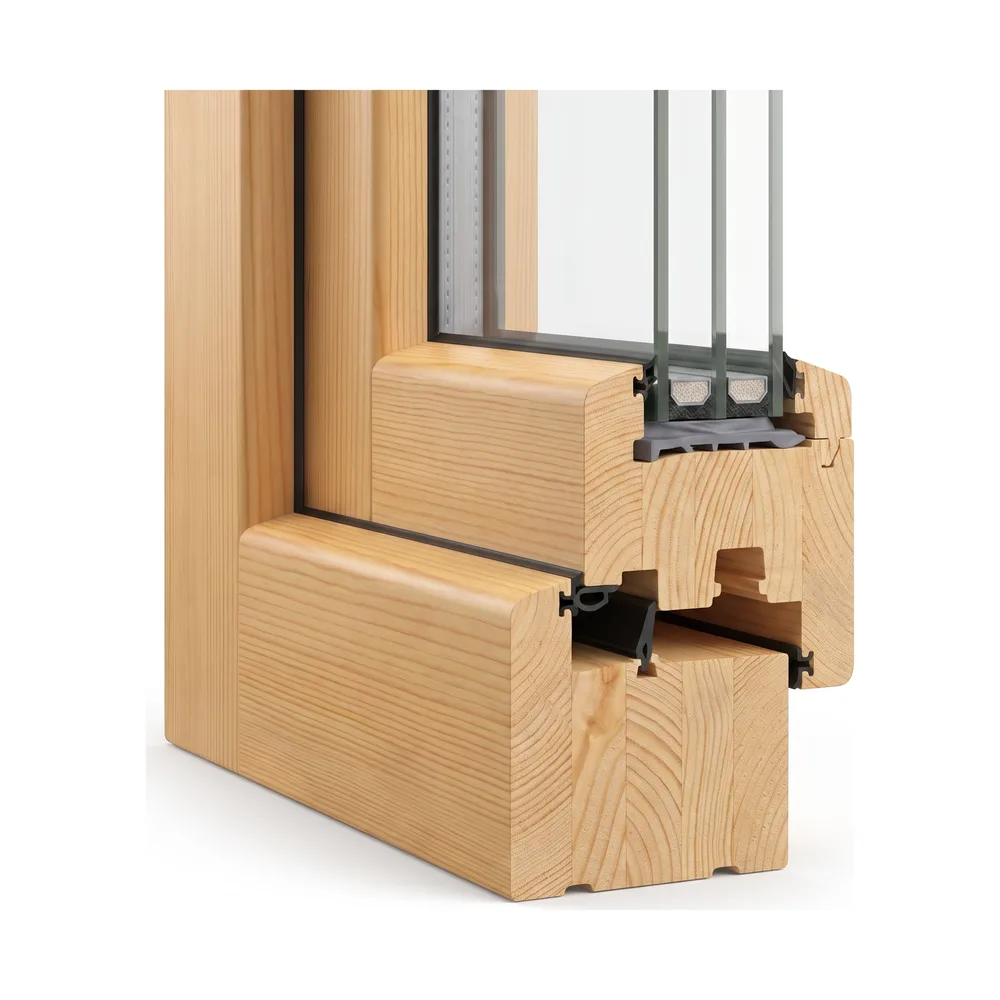
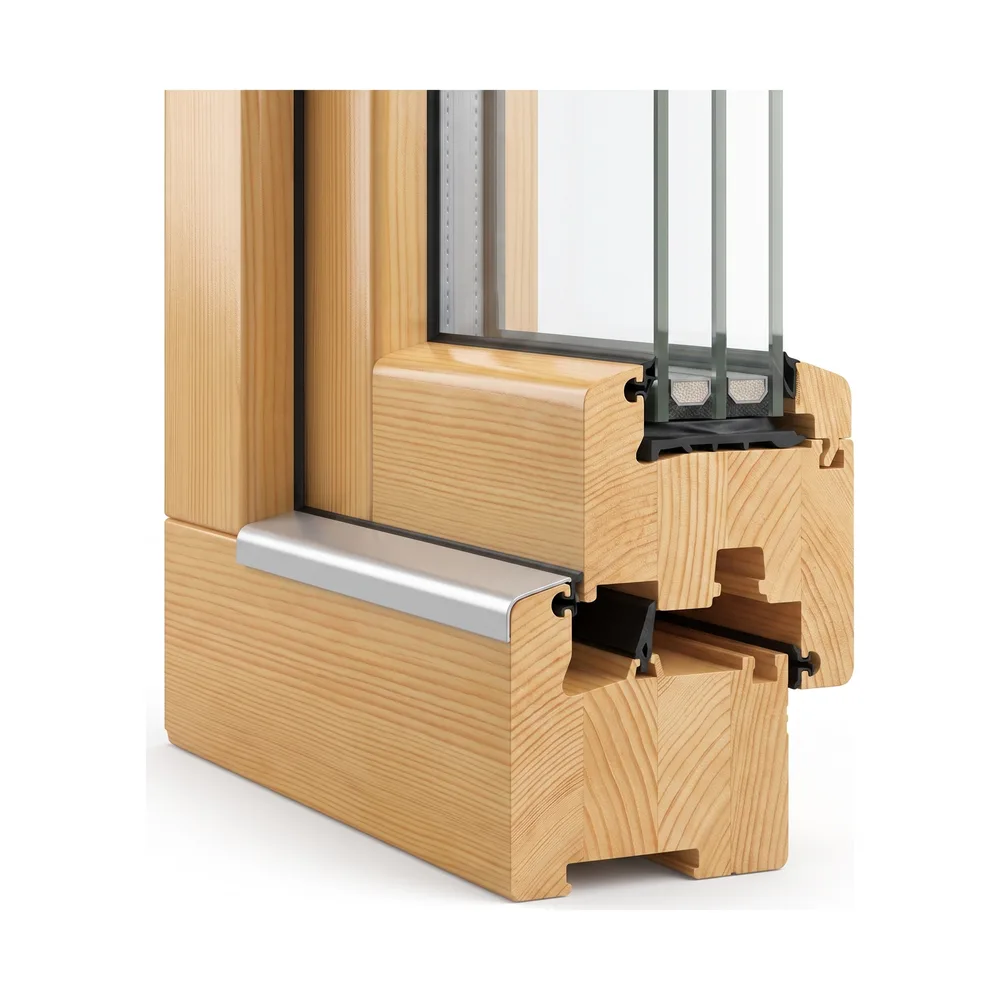
Profilkarten: Herstellerangaben je System, Bilder mit korrekter Verglasung
Alle neun Profilkarten (3 Kunststoff, 3 Holz, 3 Alu) zeigen jetzt dieselbe kurze
Angabenliste: Bautiefe, Kammern bzw. Dichtungen, Uw-Wert und ein bis zwei
Systemmerkmale. Jede Angabe ist an der Herstellerseite belegt (drutex.de,
geprueft 27.08.2026); die Quellen stehen als Kommentar am Katalog.

ZWEI FALSCHE ANGABEN AUF DEN BESTEHENDEN KUNSTSTOFF-KARTEN korrigiert:
- IGLO 5 Classic stand mit "Uw 0,83". Der Hersteller nennt 0,86 W/(m2K).
- IGLO Energy Classic stand mit "Uw 0,71". Der Hersteller nennt 0,73 W/(m2K).
Beide Werte waren besser als die Herstellerangabe. Ein zu guter Uw-Wert auf der
Karte ist eine irrefuehrende Angabe, kein Detail.

- Ein Weg fuer alle Profilkarten: der Katalog wird gefiltert und gerendert. Vorher
  standen die drei Kunststoff-Karten fest verdrahtet neben dem Katalogpfad, jede
  Aenderung war doppelt zu machen. IGLO EDGE bleibt bei der Haustuer aussen vor.
- Neun Kartenbilder neu erzeugt (Higgsfield, Nano Banana 2, 27.08.2026): die
  bisherigen zeigten bei Softline 78/88 drei Scheiben und bei Softline 68 nur eine
  Dichtung. Der Hersteller liefert serienmaessig 2-fach-Verglasung und fuehrt in
  allen drei Bautiefen zwei Dichtungen; die Alu-Systeme haben drei EPDM-Dichtungen.
  Die Aluminiumleiste am Fluegel ist jetzt sichtbar. Alle als WebP, zusammen 389 KB.
- hyphens:manual auf der Angabenliste: am Handy trennte der Browser sonst mitten
  im Wort ("Aluminiumleiste ge-gen").
[…]

diff --git a/konfigurator.html b/konfigurator.html
@@ -1481,6 +1481,14 @@ body.wiz-active .stage-card #stage svg{width:100%;height:auto;max-height:min(46v
 .ocard .vis img{max-height:110px}
 .ocard .t{font-size:15px;font-weight:700;line-height:1.25;color:var(--ink)}
 .ocard .s{font-size:12.5px;line-height:1.35;margin-top:4px;color:var(--ink-soft)}
+  /* Herstellerangaben auf den Profilkarten. Linksbuendig, weil untereinander stehende
+     Zeilen zentriert unruhig wirken — die Karte selbst bleibt zentriert. */
+  .ocard .pfacts{list-style:none;margin:11px 0 0;padding:0;text-align:left;display:grid;gap:3px}
+  .ocard .pfacts li{font-size:12px;line-height:1.35;color:var(--ink-soft);padding-left:13px;position:relative;overflow-wrap:break-word;hyphens:manual}  /* hyphens:manual statt auto: am Handy trennte der Browser sonst mitten im Wort
+     ("Aluminiumleiste ge-gen"). Ganze Woerter umbrechen liest sich ruhiger;
+     overflow-wrap faengt ein einzelnes ueberlanges Wort weiterhin ab. */
+  .ocard .pfacts li::before{content:'';position:absolute;left:2px;top:7px;width:4px;height:4px;border-radius:50%;background:var(--primary);opacity:.55}
+  @media(max-width:767px){ .ocard .pfacts li{font-size:11.5px;line-height:1.3} .ocard .pfacts{margin-top:9px;gap:2px} }
 .ocard:hover{border-color:var(--primary);box-shadow:0 6px 18px -10px rgba(34,94,170,.45)}
 
 /* Ausgewaehlt muss man auf einen Blick sehen — vorher nur eine duenne Linie. */
@@ -3708,16 +3716,34 @@ const HOLZARTEN={
    Bei Holz/Alu stehen nur Bautiefe und Dichtungen: pruefbare Konstruktionsangaben.
    Uw-Werte kommen erst aus den Drutex-Datenblaettern dazu, nicht aus Fremdquellen. */
 const PROFILE_KAT={
-  kunststoff:[{v:'classic',t:'IGLO 5 Classic',s:'5-Kammer \u00b7 Uw 0,83'},
-              {v:'energy', t:'IGLO Energy Classic',s:'7-Kammer \u00b7 Uw 0,71'},
-              {v:'edge',   t:'IGLO EDGE',s:'7-Kammer \u00b7 Uw 0,66'}],
-  holz:      [{v:'softline68',img:'softline68',t:'Softline 68 mm',s:'68 mm Bautiefe \u00b7 2 Dichtungen \u00b7 Uw 1,08'},
-              {v:'softline78',img:'softline78',t:'Softline 78 mm',s:'78 mm Bautiefe \u00b7 2 Dichtungen \u00b7 Uw 0,90'},
-              {v:'softline88',img:'softline88',t:'Softline 88 mm',s:'88 mm Bautiefe \u00b7 2 Dichtungen \u00b7 Uw 0,80'}],
-  alu:       [{v:'mb70',img:'mb70',  t:'MB-70',  s:'70 mm Bautiefe \u00b7 3 EPDM-Dichtungen \u00b7 Uw 1,06'},
-              {v:'mb70hi',img:'mb70hi',t:'MB-70HI',s:'70 mm Bautiefe \u00b7 3 EPDM-Dichtungen \u00b7 Uw 0,96'},
-              {v:'mb86si',img:'mb86si',t:'MB-86N SI',s:'77 mm Bautiefe \u00b7 3 EPDM-Dichtungen \u00b7 Uw 0,76'}]
+  kunststoff:[
+    {v:'classic', img:'iglo5-zentriert',               t:'IGLO 5 Classic',
+     f:['70 mm Bautiefe','5 Kammern','2 EPDM-Dichtungen','Uw 0,86 W/(m²K)','1,5 mm Stahlverstärkung']},
+    {v:'energy',  img:'iglo-energy-classic-zentriert', t:'IGLO Energy Classic',
+     f:['82 mm Bautiefe','7 Kammern','3 Dichtungen inkl. Mitteldichtung','Uw 0,73 W/(m²K)']},
+    {v:'edge',    img:'iglo-edge-zentriert',           t:'IGLO EDGE',
+     f:['82 mm Bautiefe','7 Kammern','3 EPDM-Dichtungen inkl. Mitteldichtung','Uw 0,66 W/(m²K)','serienmäßig 3-fach verglast']}],
+  holz:[
+    {v:'softline68', img:'softline68', t:'Softline 68 mm',
+     f:['68 mm Bautiefe','2 Dichtungen','Uw 1,08 W/(m²K)','Aluminiumleiste gegen UV und Wasser','MACO MULTI-MATIC KS-Beschlag']},
+    {v:'softline78', img:'softline78', t:'Softline 78 mm',
+     f:['78 mm Bautiefe','2 Dichtungen','Uw 0,90 W/(m²K)','Aluminiumleiste gegen UV und Wasser','MACO MULTI-MATIC KS-Beschlag']},
+    {v:'softline88', img:'softline88', t:'Softline 88 mm',
+     f:['88 mm Bautiefe','2 Dichtungen','Uw 0,80 W/(m²K)','Aluminiumleiste gegen UV und Wasser','MACO MULTI-MATIC KS-Beschlag']}],
+  alu:[
+    {v:'mb70',   img:'mb70',   t:'MB-70',
+     f:['70 mm Bautiefe','3 EPDM-Dichtungen','Uw 1,06 W/(m²K)','Standard: 2-fach-Verglasung']},
+    {v:'mb70hi', img:'mb70hi', t:'MB-70HI',
+     f:['70 mm Bautiefe','3 EPDM-Dichtungen','Uw 0,96 W/(m²K)','Standard: 2-fach-Verglasung']},
+    {v:'mb86si', img:'mb86si', t:'MB-86N SI',
+     f:['77 mm Bautiefe','3 EPDM-Dichtungen','Uw 0,76 W/(m²K)','Standard: 2-fach-Verglasung']}]
 };
+/* Alle Angaben oben stammen aus den Herstellerseiten (drutex.de, geprueft 27.08.2026):
+   iglo5-classic.html, iglo-energy-classic.html, iglo-edge.html, softline.html,
+   mb-70-fenster-alu.html, mb-70hi-fenster-alu.html, mb-86si-fenster-alu.html.
+   Nichts davon ist geschaetzt oder aus dem Markt uebernommen. Wer hier etwas
+   aendert, belegt es bitte wieder an der Herstellerseite — ein zu guter Uw-Wert
+   auf der Karte ist eine irrefuehrende Angabe, kein Detail. */
 const KARTE_PFAD='img/karten/profil/';
 /* Bildpfad einer Profilkarte. Bei Holz haengt das Bild zusaetzlich an der Holzart:
    dieselbe Bautiefe sieht in Kiefer und Meranti voellig anders aus, ein gemeinsames
@@ -4240,8 +4266,9 @@ function kiHinweisHTML(key){ const h=KI_HINWEIS[key]; return h?`<p class="ai-not
 
 /* Auswahlkarte mit freiem Klickziel \u2014 wie ocIcon(), aber der Setter darf mehr tun
    als ein Feld schreiben (Material zieht Profil, Rollladen und Schrittliste nach). */
-function choiceCardImg(on,fn,img,t,s){
-  return `<div class="ocard ${on?'on':''}" onclick="${fn}"><span class="tick"><svg viewBox="0 0 24 24" fill="none" stroke="#fff" stroke-width="3.5"><path d="M20 6 9 17l-5-5"/></svg></span><div class="vis"><img src="${img}" loading="lazy" decoding="async" alt="${t} (KI-generiertes Symbolbild)"></div><div class="t">${t}</div>${s?`<div class="s">${s}</div>`:''}</div>`;
+function choiceCardImg(on,fn,img,t,s,fakten){
+  const liste=(fakten&&fakten.length)?`<ul class="pfacts">${fakten.map(f=>`<li>${f}</li>`).join('')}</ul>`:'';
+  return `<div class="ocard ${on?'on':''}" onclick="${fn}"><span class="tick"><svg viewBox="0 0 24 24" fill="none" stroke="#fff" stroke-width="3.5"><path d="M20 6 9 17l-5-5"/></svg></span><div class="vis"><img src="${img}" loading="lazy" decoding="async" alt="${t} (KI-generiertes Symbolbild)"></div><div class="t">${t}</div>${s?`<div class="s">${s}</div>`:''}${liste}</div>`;
 }
 function panelHTML(){
   const k=STEPS[cur].key;
@@ -4256,23 +4283,22 @@ function panelHTML(){
     }).join(''));
   }
   if(k==='profil'){
-    /* Holz und Alu: Karten aus dem Katalog, Abbildungen folgen. Kunststoff laeuft
-       unveraendert ueber die bestehenden Profilbilder weiter. */
-    if(S.prod==='fenster' && S.material!=='kunststoff'){
-      return grp('Profil-System','three', PROFILE_KAT[S.material].map(function(p){
-        return choiceCardImg(S.profile===p.v, "set('profile','"+p.v+"')", profilBild(S.material,p), p.t, p.s);
-      }).join(''));
-    }
     if(S.prod==='schiebe'){
       const c=(val,img,t,s)=>`<div class="ocard ${S.hstSystem===val?'on':''}" onclick="setHstSystem('${val}')"><span class="tick"><svg viewBox="0 0 24 24" fill="none" stroke="#fff" stroke-width="3.5"><path d="M20 6 9 17l-5-5"/></svg></span><div class="vis"><img src="${img}?v=1" loading="lazy" decoding="async" alt="${t}"></div><div class="t">${t}</div><div class="s">${s}</div></div>`;
       return grp('Schiebe-System','two',
         c('psk','img/karten/profil/iglo-psk.webp','PSK Schiebetür','Kippen + seitlich schieben · mittelgroße Öffnungen · bis 160 kg')+
         c('hs','img/karten/profil/iglo-hs.webp','Hebe-Schiebetür','Anheben + schieben · große, raumhohe Terrassenfronten'));
     }
-    // IGLO EDGE nur bei Fenster und Balkontuer: der Hersteller fuehrt in diesem System keine
-    // Haustueren (die EDGE-Tueren im Handel sind Nebeneingangstueren). Preise gemessen 14.08.2026.
-    return grp('Profil-System', S.prod!=='haustuer'?'three':'two',
-      ocImg('profile','classic','img/karten/profil/iglo5-zentriert.webp','IGLO 5 Classic','5-Kammer · Uw 0,83')+ocImg('profile','energy','img/karten/profil/iglo-energy-classic-zentriert.webp','IGLO Energy Classic','7-Kammer · Uw 0,71')+(S.prod!=='haustuer'?ocImg('profile','edge','img/karten/profil/iglo-edge-zentriert.webp','IGLO EDGE','7-Kammer · Uw 0,66'):''));
+    /* Ein Weg fuer alle Profilkarten: Katalog filtern, Karten bauen. Vorher standen
+       die drei Kunststoff-Karten fest verdrahtet daneben — jede Aenderung musste
+       zweimal gemacht werden und lief prompt auseinander.
+       IGLO EDGE bleibt bei der Haustuer aussen vor: der Hersteller fuehrt in diesem
+       System keine Haustueren (die EDGE-Tueren im Handel sind Nebeneingangstueren). */
+    const _mat=(S.prod==='fenster')?(S.material||'kunststoff'):'kunststoff';
+    const _liste=PROFILE_KAT[_mat].filter(function(p){ return !(p.v==='edge' && S.prod==='haustuer'); });
+    return grp('Profil-System', _liste.length>2?'three':'two', _liste.map(function(p){
+      return choiceCardImg(S.profile===p.v, "set('profile','"+p.v+"')", profilBild(_mat,p), p.t, '', p.f);
+    }).join(''));
   }
   if(k==='psk'){
     return grp('PSK-Kammer-System','three',
